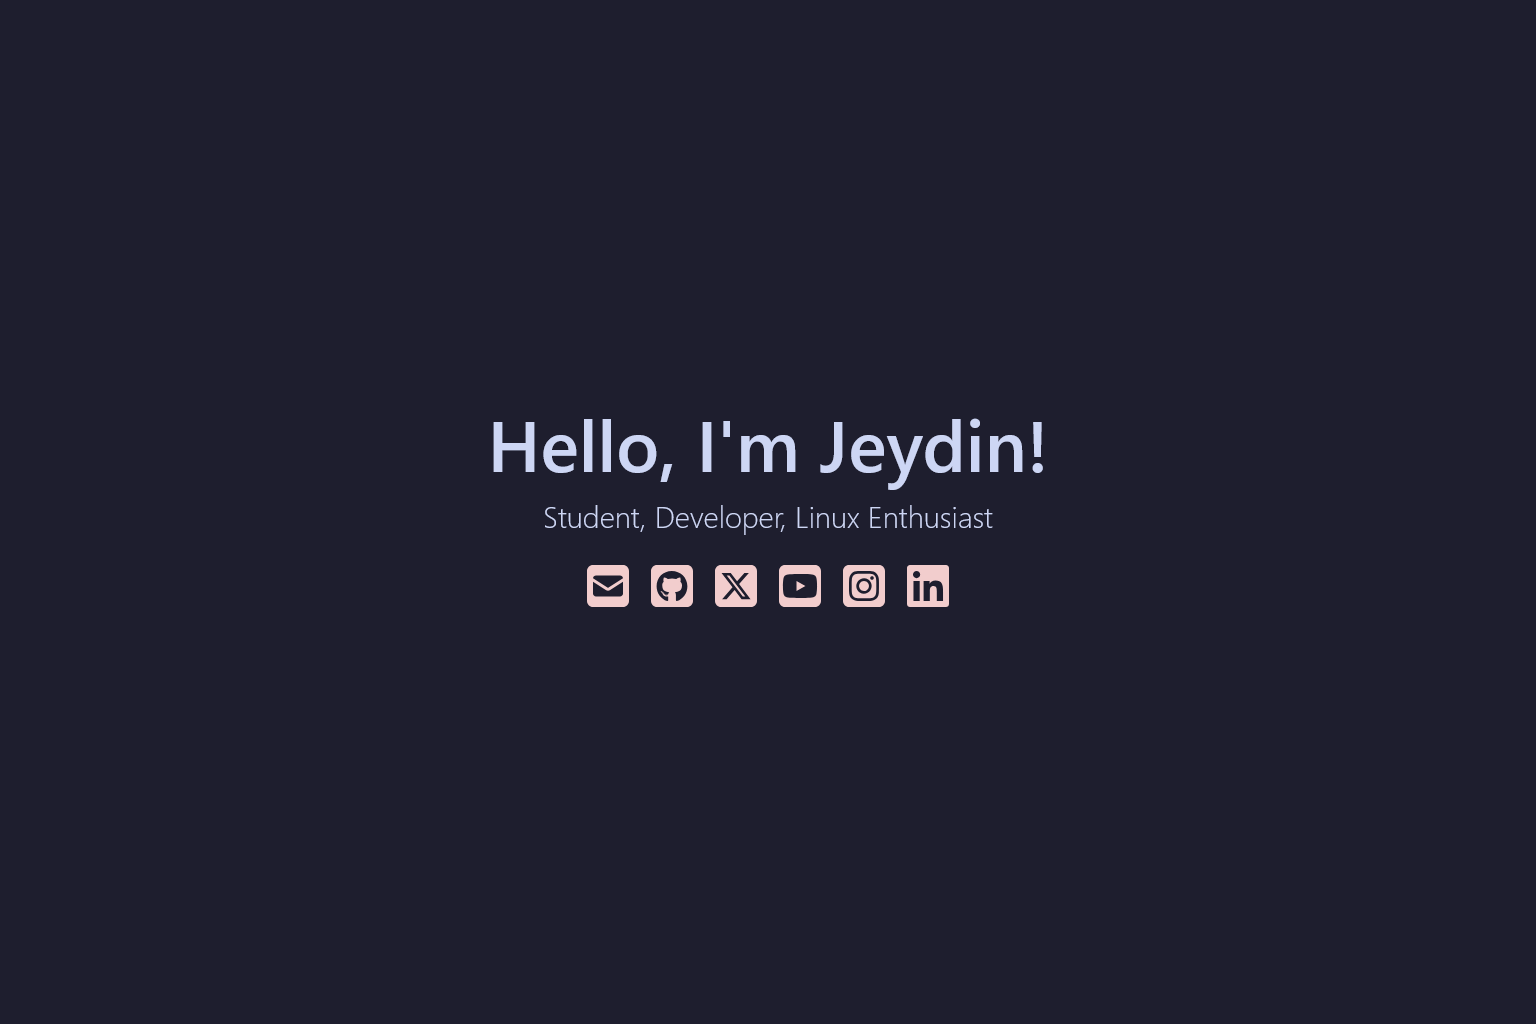
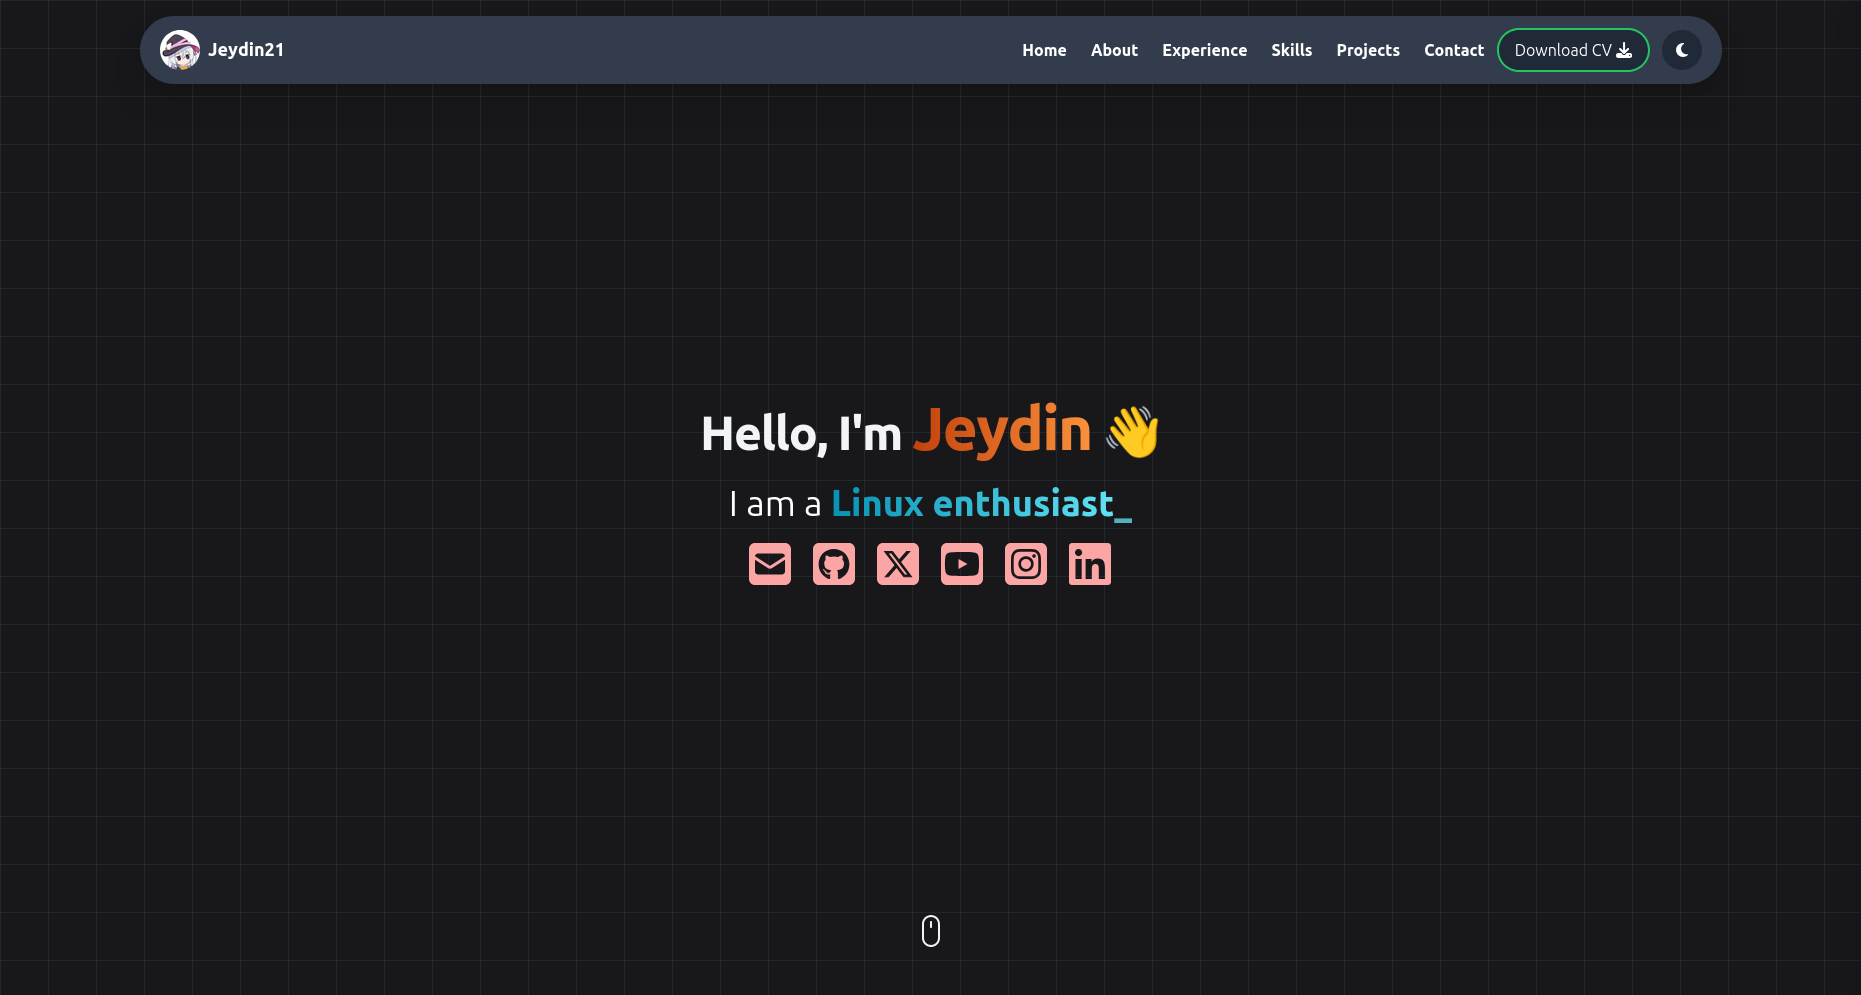
Put background styling into MainLayout

Changed region(s): [[0.0625, 0.0, 0.9375, 0.0935], [0.3125, 0.405, 0.6875, 0.592]]

diff --git a/components/layout/MainLayout.tsx b/components/layout/MainLayout.tsx
@@ -8,8 +8,8 @@ export default function MainLayout({ children }: { children: ReactNode }) {
       <Head>
         <title>Jeydin21</title>
         <meta name="title" content="Jeydin21" />
-        <meta name="description" content="My personal landing page made with ❤" />
-        <meta name="theme-color" content="#f2cdcd" />
+        <meta name="description" content="My personal website made with ❤" />
+        <meta name="theme-color" content="#ff8a00" />
 
         <meta property="og:type" content="website" />
         <meta property="og:url" content="j21.dev" />
@@ -21,7 +21,7 @@ export default function MainLayout({ children }: { children: ReactNode }) {
         <meta property="twitter:title" content="Jeydin21" />
         <meta property="twitter:description" content="My personal landing page made with ❤" />
         <meta property="twitter:image" content="/favicon.png" />
-
+        
         <link rel="icon" href="/favicon.ico" type="image/png" />
 
         <meta charSet="utf-8" />
@@ -29,7 +29,7 @@ export default function MainLayout({ children }: { children: ReactNode }) {
         <meta name="viewport" content="width=device-width, initial-scale=1.0" />
       </Head>
 
-      <div className="transition-all duration-300">
+      <div className="bg-light-background dark:bg-dark-background2 bg-fixed bg-[linear-gradient(to_right,#17b5f930_1px,transparent_1px),linear-gradient(to_bottom,#17b5f930_1px,transparent_1px)] dark:bg-[linear-gradient(to_right,#86cdff15_1px,transparent_1px),linear-gradient(to_bottom,#86cdff15_1px,transparent_1px)] bg-[size:48px_48px] transition-all duration-300">
         {children}
       </div>
     </>

diff --git a/pages/index.tsx b/pages/index.tsx
@@ -4,6 +4,7 @@ import Experience from "@/components/sections/Experience";
 import Skills from "@/components/sections/Skills";
 import Header from "@/components/layout/Header";
 import Projects from "@/components/sections/Projects";
+import MainLayout from "@/components/layout/MainLayout";
 
 import { useState, useEffect } from 'react';
 import { useCookies } from 'react-cookie';
@@ -25,7 +26,7 @@ export default function Landing() {
   };
 
   return (
-    <div className={`bg-light-background dark:bg-dark-background2 bg-fixed bg-[linear-gradient(to_right,#17b5f930_1px,transparent_1px),linear-gradient(to_bottom,#17b5f930_1px,transparent_1px)] dark:bg-[linear-gradient(to_right,#86cdff15_1px,transparent_1px),linear-gradient(to_bottom,#86cdff15_1px,transparent_1px)] bg-[size:48px_48px] transition-all`}>
+    <MainLayout>
       <Header mobileMenuOpen={mobileMenuOpen} setMobileMenuOpen={setMobileMenuOpen} toggleTheme={toggleTheme} />
       <Hero />
       <About />
@@ -55,6 +56,6 @@ export default function Landing() {
           <Link href="#contact" className="hover:text-green-500 text-lg" onClick={() => setMobileMenuOpen(false)}>Contact</Link>
         </div>
       </div>
-    </div>
+    </MainLayout>
   );
 }

diff --git a/README.md b/README.md
@@ -1,7 +1,7 @@
 <div align="center">
-<h1>Personal Website</h1>
-</a>
-This is my personal website that is basically horizontal Linktree. You can call it Linkbush if you want.
+
+# Personal Website
+This is my personal website that I created in my senior year of high school for my computer science class.
 <br />
 
 ### Live demo at [j21.dev](https://j21.dev/)
